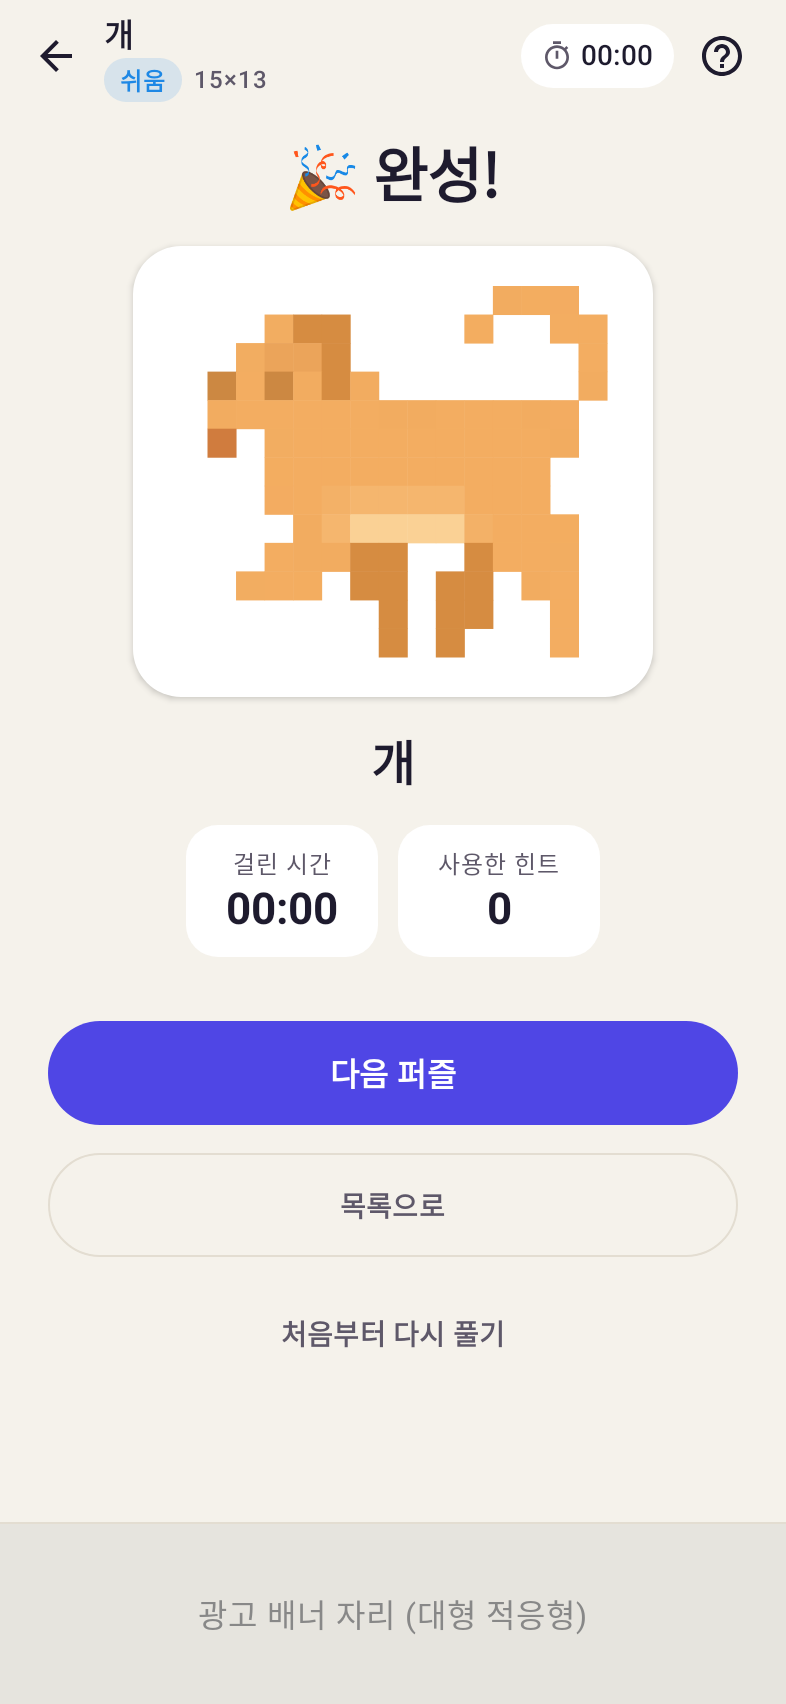
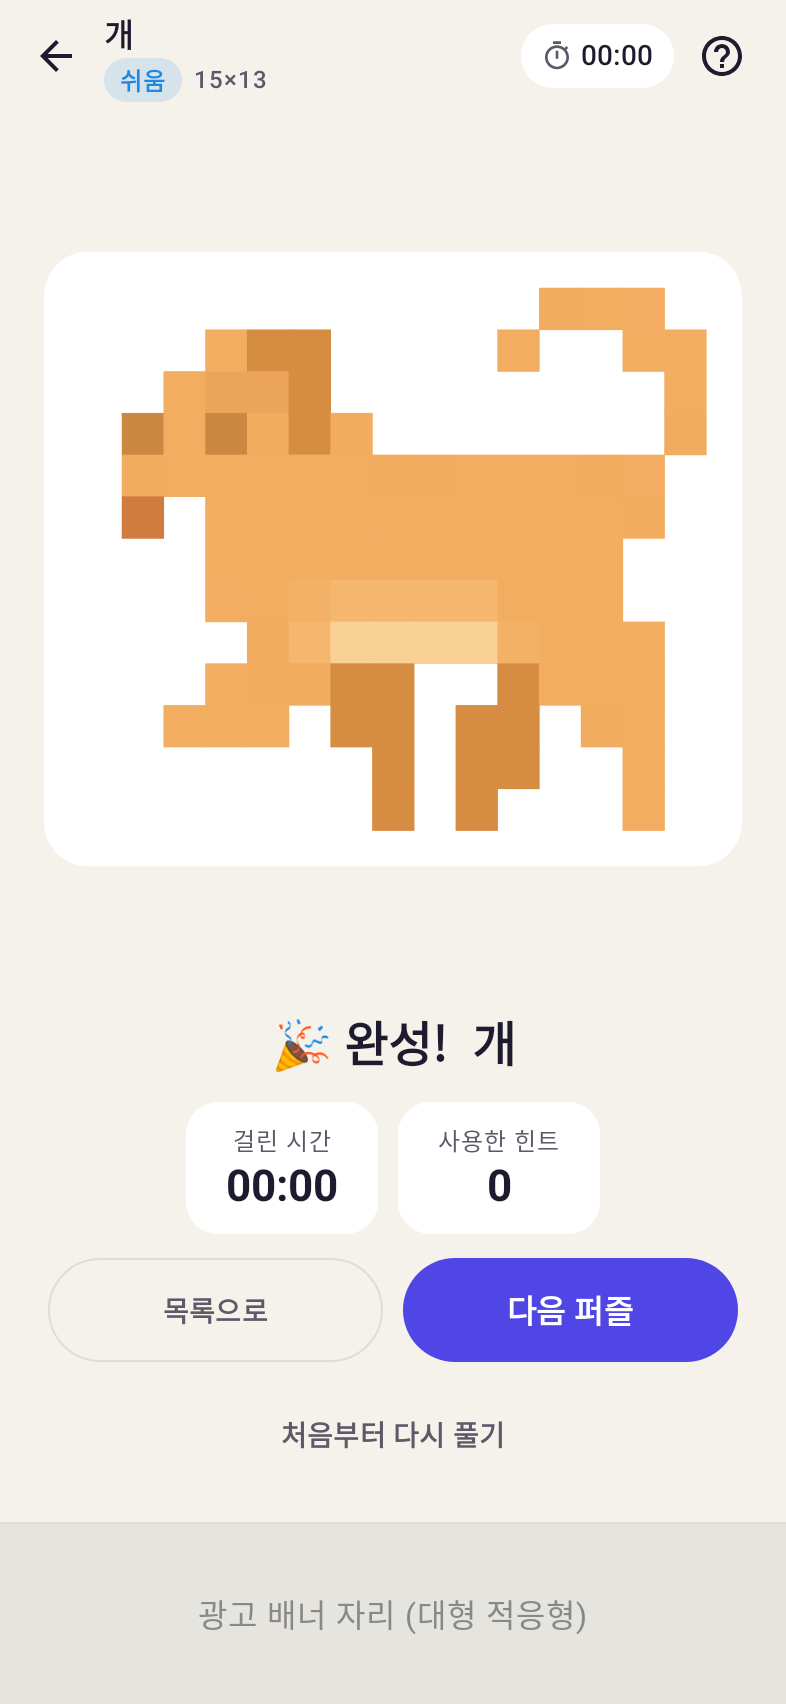
컬렉션 개수 천 단위 표기, 화면 스냅샷 갱신
- 스냅샷 17종 (색 입히기 연출 중간/완료, 컬러 퍼즐 연출, 컬렉션, 칠하기 색 설정 등)
- 테스트 화면 시나리오를 클래스별로 분리 (Robolectric 테스트 간 간섭 방지)

Claude-Session: https://claude.ai/code/session_01KkdCATV44MxCTavuu5NbwQ

diff --git a/app/src/test/kotlin/com/hyunnyApps/nonogram/screenshot/Screenshots.kt b/app/src/test/kotlin/com/hyunnyApps/nonogram/screenshot/Screenshots.kt
@@ -59,7 +59,7 @@ import org.robolectric.annotation.GraphicsMode
 abstract class ScreenshotBase {
     @get:Rule val rule = createAndroidComposeRule<ComponentActivity>()
     protected val container get() = ApplicationProvider.getApplicationContext<NonogramApplication>().container
-    private val out = System.getProperty("roborazzi.output.dir") ?: "build/screenshots"
+    protected val out = System.getProperty("roborazzi.output.dir") ?: "build/screenshots"
 
     /** 실제 앱처럼 하단에 광고 배너 자리를 둔다 */
     protected fun show(dark: Boolean = false, ink: Int = 0, content: @Composable () -> Unit) {
@@ -113,7 +113,7 @@ class HomeScreenshot : ScreenshotBase() {
     @Test
     fun home() {
         val vm = HomeViewModel(container)
-        show { HomeScreen({ _, _ -> }, {}, {}, {}, vm) }
+        show { HomeScreen({ _, _ -> }, {}, {}, {}, {}, vm) }
         rule.waitUntil(60_000) { !vm.state.value.loading }
         capture("01_home")
     }
@@ -125,7 +125,7 @@ class HomeColorDarkScreenshot : ScreenshotBase() {
         runBlocking { container.player.markTutorialSeen() }
         val vm = HomeViewModel(container)
         vm.selectKind(KIND_COLOR)
-        show(dark = true) { HomeScreen({ _, _ -> }, {}, {}, {}, vm) }
+        show(dark = true) { HomeScreen({ _, _ -> }, {}, {}, {}, {}, vm) }
         rule.waitUntil(60_000) { !vm.state.value.loading }
         capture("02_home_color_dark")
     }
